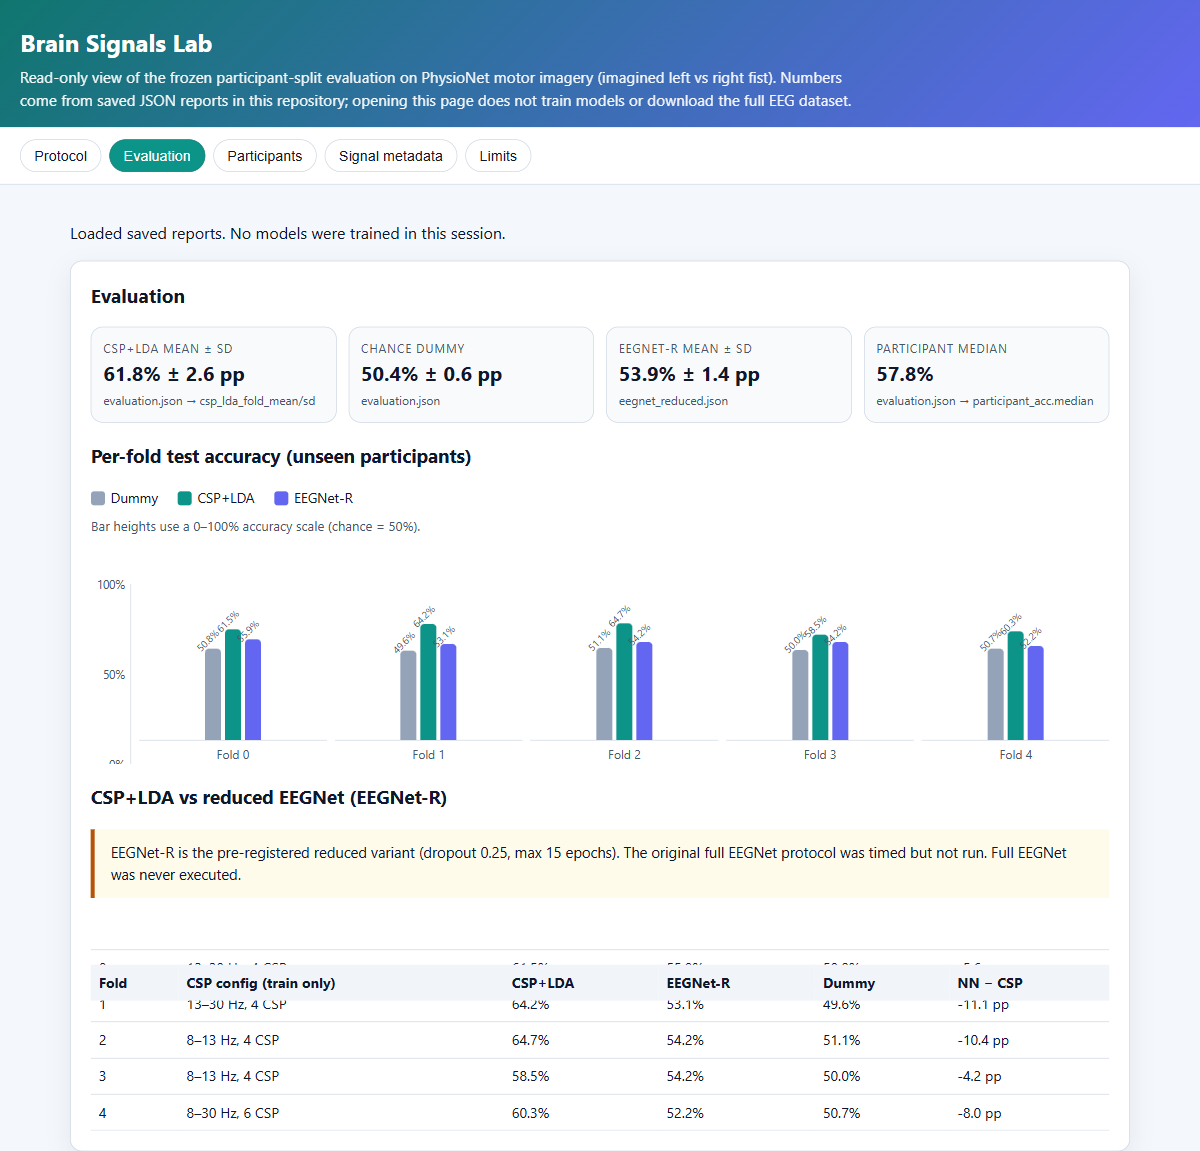
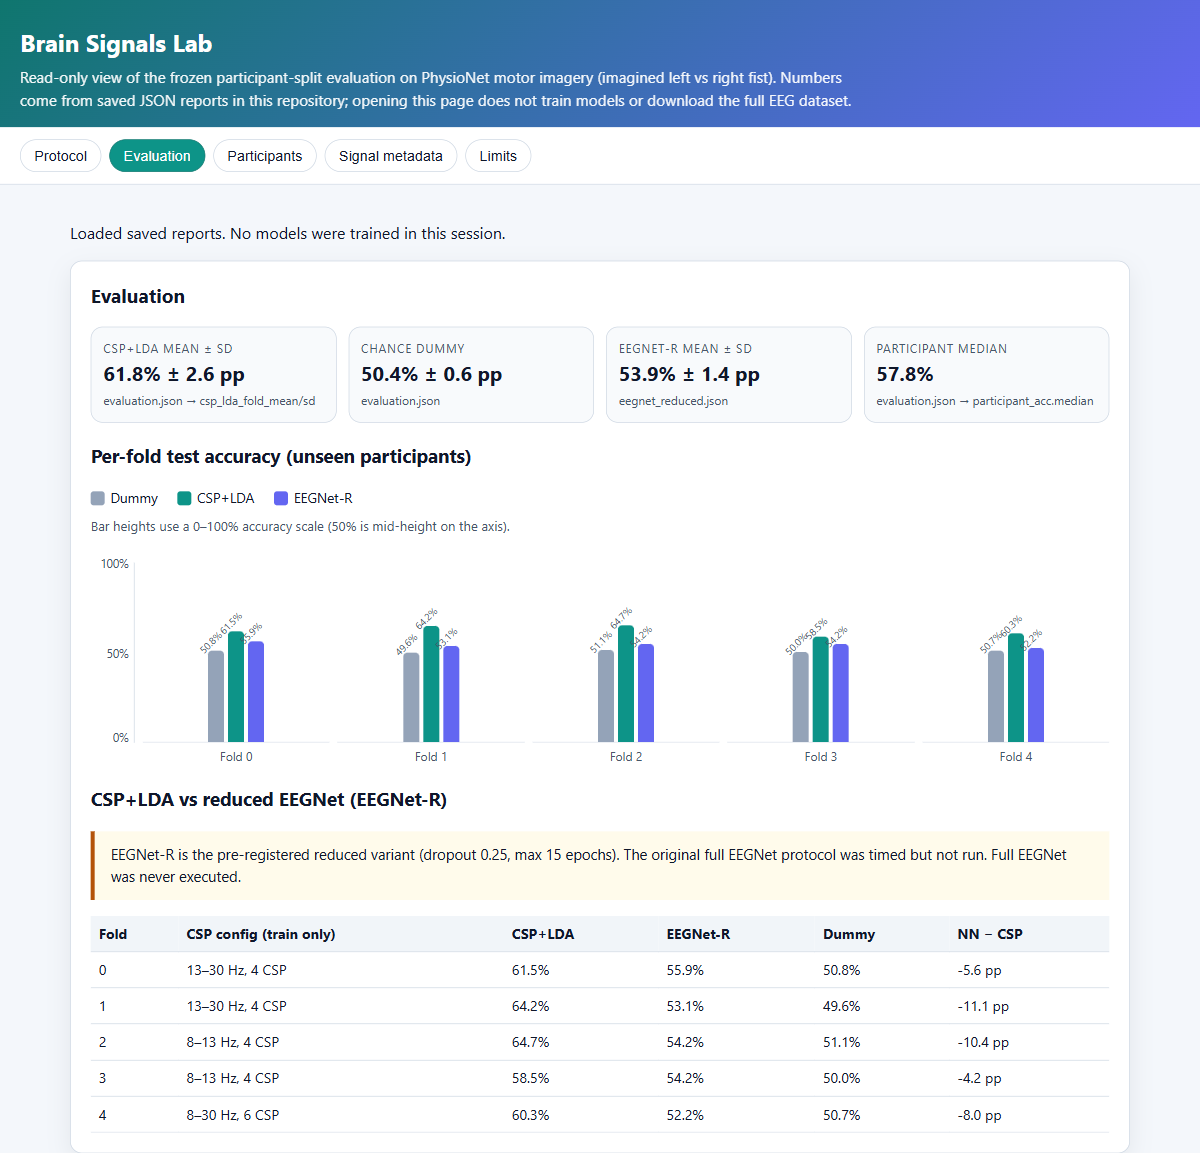
Fix chart axis alignment and table header overlap.
Align y-axis ticks to the bar plot baseline, drop sticky headers in scroll tables, add focusable scroll regions, and refresh evaluation/mobile evidence PNGs.

diff --git a/viewer/app.js b/viewer/app.js
@@ -28,6 +28,10 @@ function subjectLabel(id) {
   return `S${String(id).padStart(3, "0")}`;
 }
 
+function scrollRegionAttrs(label) {
+  return `class="table-scroll" tabindex="0" role="region" aria-label="${label}"`;
+}
+
 function bandLabel(selected) {
   if (!selected?.band_hz) return "—";
   const [lo, hi] = selected.band_hz;
@@ -74,7 +78,7 @@ function renderProtocolStats() {
     })
     .join("");
   document.getElementById("fold-table-wrap").innerHTML = `
-    <div class="table-scroll"><table>
+    <div ${scrollRegionAttrs("Frozen outer fold assignments; scroll horizontally on narrow screens")}><table>
       <thead><tr><th>Fold</th><th>Test participants</th><th>Note</th></tr></thead>
       <tbody>${rows}</tbody>
     </table></div>
@@ -104,21 +108,24 @@ function renderEvalSummary() {
         `Fold ${foldId}: Dummy ${pct(f.chance_dummy_acc)}, CSP+LDA ${pct(f.csp_lda_acc)}, EEGNet-R ${pct(nnFold.eegnet_r_acc)}`,
       );
       return `
-        <div class="bar-group">
-          <div class="bars" style="height:${CHART_PLOT_H}px">
+        <div class="bar-group-plot">
+          <div class="bars">
             <div class="bar chance" style="height:${chH}px" title="Dummy ${pct(f.chance_dummy_acc)}"><span class="bar-value">${pct(f.chance_dummy_acc)}</span></div>
             <div class="bar csp" style="height:${cspH}px" title="CSP+LDA ${pct(f.csp_lda_acc)}"><span class="bar-value">${pct(f.csp_lda_acc)}</span></div>
             <div class="bar nn" style="height:${nnH}px" title="EEGNet-R ${pct(nnFold.eegnet_r_acc)}"><span class="bar-value">${pct(nnFold.eegnet_r_acc)}</span></div>
           </div>
-          <div class="caption">Fold ${foldId}</div>
         </div>`;
     })
     .join("");
+  const captions = foldEntries
+    .map(([foldId]) => `<div class="bar-caption">Fold ${foldId}</div>`)
+    .join("");
   const yAxis = [100, 50, 0]
-    .map(
-      (tick) =>
-        `<div class="y-tick" style="bottom:${(tick / 100) * CHART_PLOT_H}px"><span>${tick}%</span></div>`,
-    )
+    .map((tick) => {
+      const cls = tick === 0 ? "y-tick tick-zero" : "y-tick";
+      const top = tick === 100 ? "0%" : tick === 50 ? "50%" : "100%";
+      return `<div class="${cls}" style="top:${top}"><span>${tick}%</span></div>`;
+    })
     .join("");
   chart.innerHTML = `
     <div class="fold-chart-block">
@@ -127,10 +134,15 @@ function renderEvalSummary() {
         <span class="legend-item"><span class="swatch csp"></span> CSP+LDA</span>
         <span class="legend-item"><span class="swatch nn"></span> EEGNet-R</span>
       </div>
-      <p class="chart-scale-note">Bar heights use a 0–100% accuracy scale (chance = 50%).</p>
+      <p class="chart-scale-note">Bar heights use a 0–100% accuracy scale (50% is mid-height on the axis).</p>
       <div class="chart-plot-row">
         <div class="y-axis" aria-hidden="true">${yAxis}</div>
-        <div class="bar-chart" role="img" aria-label="${ariaParts.join(". ")}">${groups}</div>
+        <div class="bar-plot-area">
+          <div class="bar-chart-plot" tabindex="0" role="region" aria-label="Per-fold accuracy bars; scroll horizontally on narrow screens">
+            <div class="bar-chart" role="img" aria-label="${ariaParts.join(". ")}">${groups}</div>
+          </div>
+          <div class="bar-captions">${captions}</div>
+        </div>
       </div>
     </div>`;
 
@@ -148,7 +160,7 @@ function renderEvalSummary() {
     })
     .join("");
   document.getElementById("nn-table-wrap").innerHTML = `
-    <div class="table-scroll"><table>
+    <div ${scrollRegionAttrs("CSP+LDA vs EEGNet-R per fold; scroll horizontally on narrow screens")}><table>
       <thead><tr><th>Fold</th><th>CSP config (train only)</th><th>CSP+LDA</th><th>EEGNet-R</th><th>Dummy</th><th>NN − CSP</th></tr></thead>
       <tbody>${nnRows}</tbody>
     </table></div>
@@ -190,7 +202,7 @@ function renderParticipants() {
   const wrap = document.getElementById("participant-table-wrap");
   const draw = () => {
     wrap.innerHTML = `
-      <div class="table-scroll"><table>
+      <div ${scrollRegionAttrs("Participant accuracies; scroll horizontally on narrow screens")}><table>
         <thead><tr><th>Participant</th><th>Fold</th><th>Trials</th><th>Correct</th><th>Accuracy</th><th>One-sided 95% lower bound</th><th>p (one-sided vs 0.5)</th><th>Holm (50 tests)</th></tr></thead>
         <tbody>${tbody()}</tbody>
       </table></div>`;

diff --git a/viewer/styles.css b/viewer/styles.css
@@ -158,8 +158,12 @@ td {
 
 th {
   background: #f1f5f9;
-  position: sticky;
-  top: 3.2rem;
+}
+
+.table-scroll th,
+.bar-chart-plot th {
+  position: static;
+  top: auto;
 }
 
 tr.below-chance {
@@ -174,6 +178,7 @@ tr.below-chance td:first-child {
 .chart-wrap {
   margin: 1rem 0;
   overflow-x: auto;
+  overflow-y: visible;
   max-width: 100%;
   -webkit-overflow-scrolling: touch;
 }
@@ -182,6 +187,13 @@ tr.below-chance td:first-child {
   overflow-x: auto;
   max-width: 100%;
   -webkit-overflow-scrolling: touch;
+}
+
+.table-scroll:focus-visible,
+.bar-chart-plot:focus-visible,
+.chart-wrap:focus-visible {
+  outline: 2px solid var(--focus);
+  outline-offset: 2px;
 }
 
 .fold-chart-block {
@@ -229,26 +241,33 @@ tr.below-chance td:first-child {
 
 .chart-plot-row {
   display: flex;
-  align-items: flex-end;
+  align-items: flex-start;
   gap: 0.5rem;
   min-width: 0;
+  --chart-label-space: 1.15rem;
 }
 
 .y-axis {
   position: relative;
-  width: 2.5rem;
+  width: 2.75rem;
   flex-shrink: 0;
   height: 180px;
+  margin-top: var(--chart-label-space);
   border-right: 1px solid var(--border);
+  overflow: visible;
 }
 
 .y-tick {
   position: absolute;
   right: 0.35rem;
-  transform: translateY(50%);
+  transform: translateY(-50%);
   font-size: 0.72rem;
   color: var(--muted);
   line-height: 1;
+}
+
+.y-tick.tick-zero {
+  transform: translateY(-100%);
 }
 
 .y-tick span {
@@ -256,30 +275,53 @@ tr.below-chance td:first-child {
   text-align: right;
 }
 
+.bar-plot-area {
+  flex: 1;
+  min-width: 0;
+}
+
+.bar-chart-plot {
+  overflow-x: auto;
+  max-width: 100%;
+  -webkit-overflow-scrolling: touch;
+  padding-top: var(--chart-label-space);
+}
+
 .bar-chart {
   display: flex;
   align-items: flex-end;
   gap: 0.5rem;
-  min-height: 220px;
-  padding: 0.5rem 0 0;
-  flex: 1;
-  min-width: 0;
-  overflow-x: auto;
+  min-width: min(100%, 520px);
+  overflow: visible;
 }
 
-.bar-group {
+.bar-group-plot {
   flex: 1 1 72px;
   min-width: 64px;
-  text-align: center;
 }
 
-.bar-group .bars {
+.bar-group-plot .bars {
   display: flex;
   justify-content: center;
   gap: 4px;
   align-items: flex-end;
   height: 180px;
   border-bottom: 1px solid var(--border);
+}
+
+.bar-captions {
+  display: flex;
+  gap: 0.5rem;
+  margin-top: 0.35rem;
+  min-width: min(100%, 520px);
+}
+
+.bar-caption {
+  flex: 1 1 72px;
+  min-width: 64px;
+  text-align: center;
+  font-size: 0.75rem;
+  color: var(--muted);
 }
 
 .bar {
@@ -312,12 +354,6 @@ tr.below-chance td:first-child {
 
 .bar.nn {
   background: var(--violet);
-}
-
-.bar-group .caption {
-  font-size: 0.75rem;
-  color: var(--muted);
-  margin-top: 0.35rem;
 }
 
 .ci-note {
@@ -378,9 +414,5 @@ footer {
 @media (max-width: 640px) {
   header h1 {
     font-size: 1.25rem;
-  }
-
-  th {
-    top: 5.5rem;
   }
 }

diff --git a/viewer/index.html b/viewer/index.html
@@ -43,7 +43,7 @@
         <h2 id="eval-heading">Evaluation</h2>
         <div class="meta-grid" id="eval-summary"></div>
         <h3>Per-fold test accuracy (unseen participants)</h3>
-        <div class="chart-wrap" id="fold-chart" aria-label="Bar chart of fold accuracies"></div>
+        <div class="chart-wrap" id="fold-chart" tabindex="0" role="region" aria-label="Per-fold accuracy chart; scroll horizontally on narrow screens"></div>
         <h3>CSP+LDA vs reduced EEGNet (EEGNet-R)</h3>
         <p class="note warn">
           EEGNet-R is the pre-registered reduced variant (dropout 0.25, max 15 epochs). The original
@@ -118,6 +118,6 @@
       Viewer reads <code>reports/evaluation.json</code> and related artifacts only.
     </footer>
 
-    <script src="app.js?v=t4-fixes" defer></script>
+    <script src="app.js?v=t4-layout" defer></script>
   </body>
 </html>
